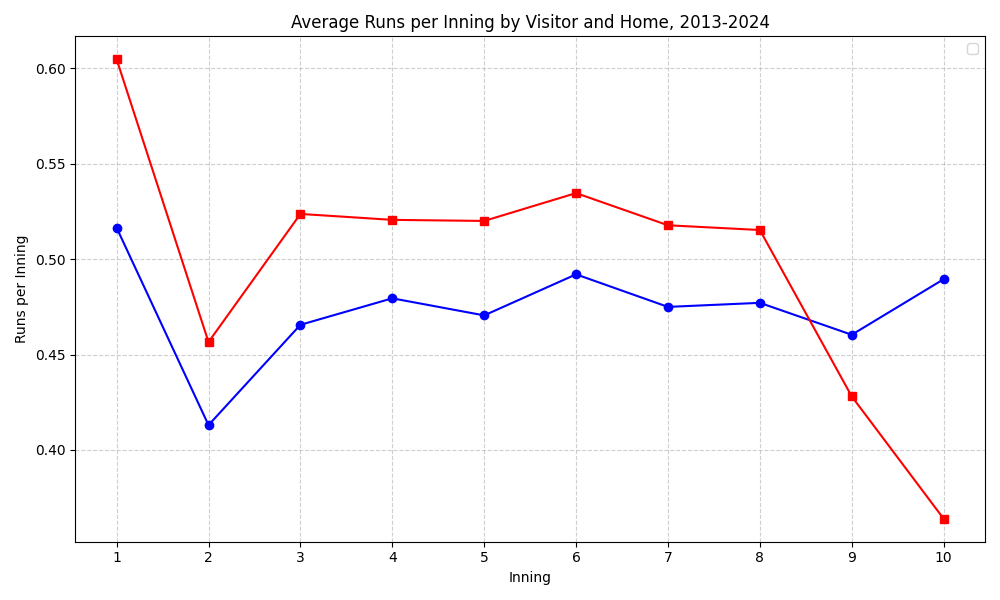
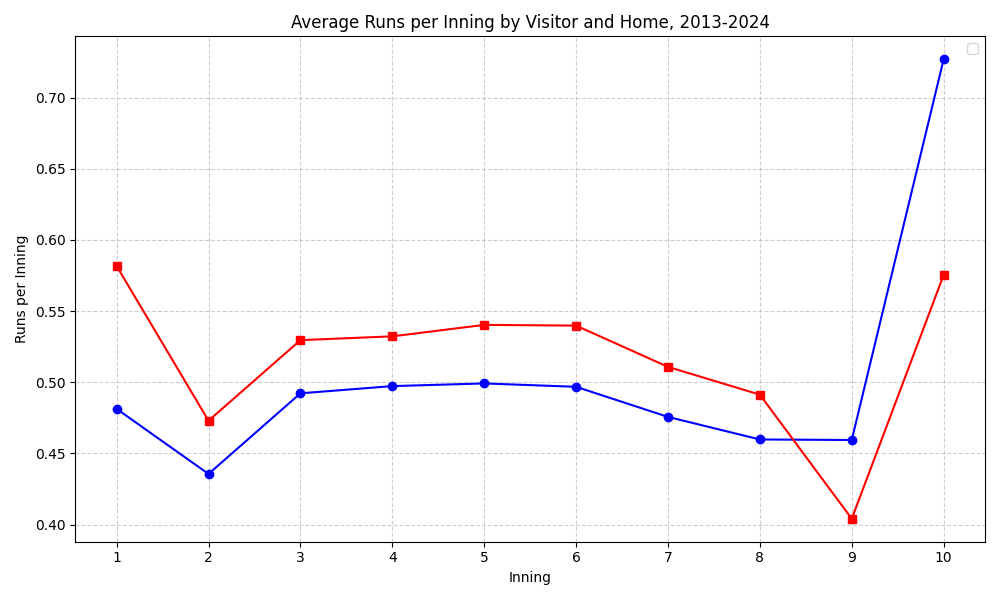
modified years

diff --git a/visuals/visualize_first_inning.py b/visuals/visualize_first_inning.py
@@ -124,16 +124,16 @@ def main():
 
 
     # restrict to 2010–present
-    df = df[(df["year"] <= 2024) & (df["year"] >= 1909)]
+    df = df[(df["year"] <= 2024) & (df["year"] >= 2013)]
 
     # group by inning and average across all years
     df_grouped = df.groupby("inning")[["visitor_avg_runs", "home_avg_runs"]].mean().reset_index()
 
     # single plot
-    # plot_runs_per_inning(df_grouped)
-    # home_versus_visiting_inning(df_grouped)
-    # plot_differential_runs_per_inning(df_grouped)
-    # plot_differential_runs_first_inning(df_2)
+    plot_runs_per_inning(df_grouped)
+    home_versus_visiting_inning(df_grouped)
+    plot_differential_runs_per_inning(df_grouped)
+    plot_differential_runs_first_inning(df_2)
     plot_home_vs_visitor_first_inning_line(df_3)
 
 
